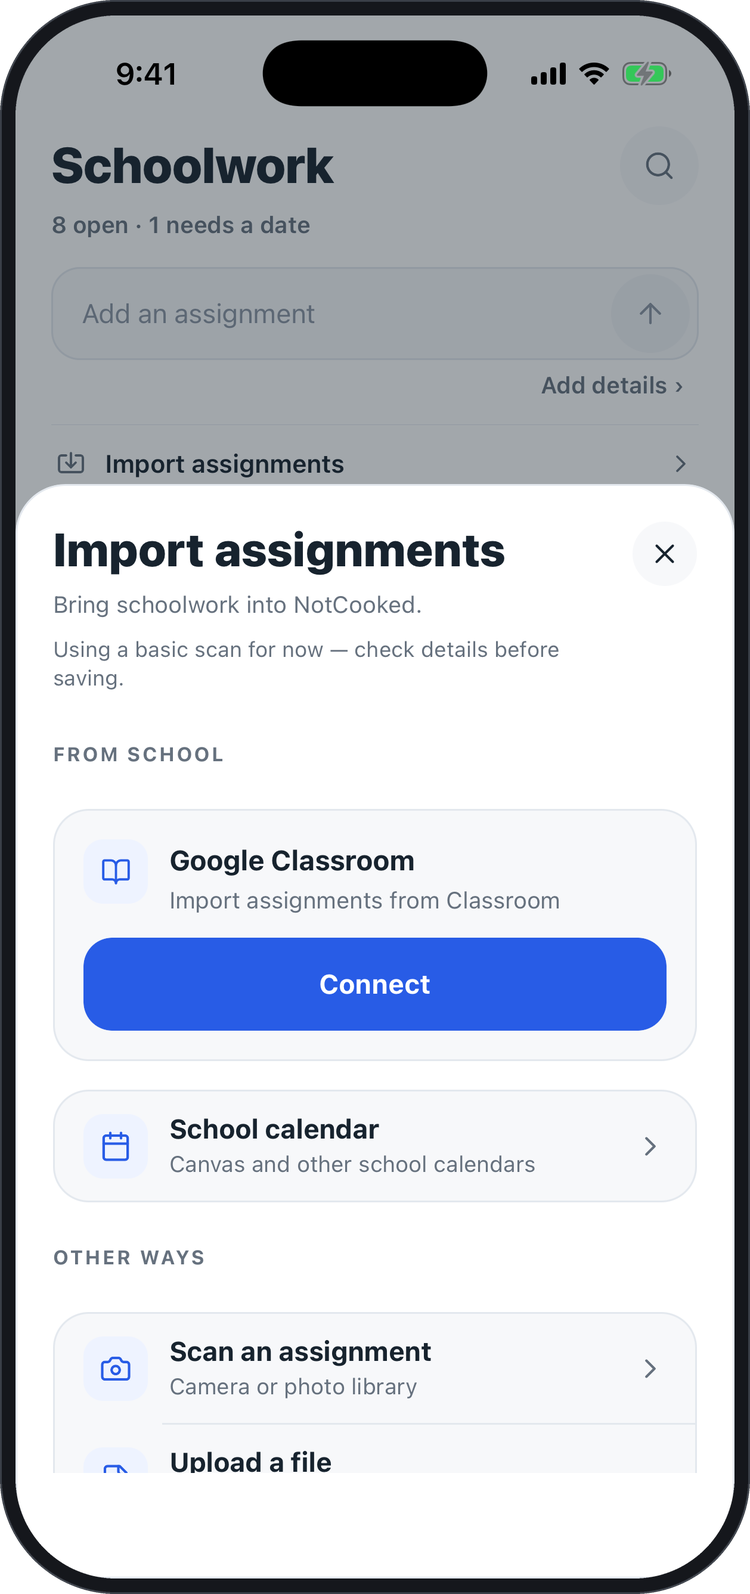
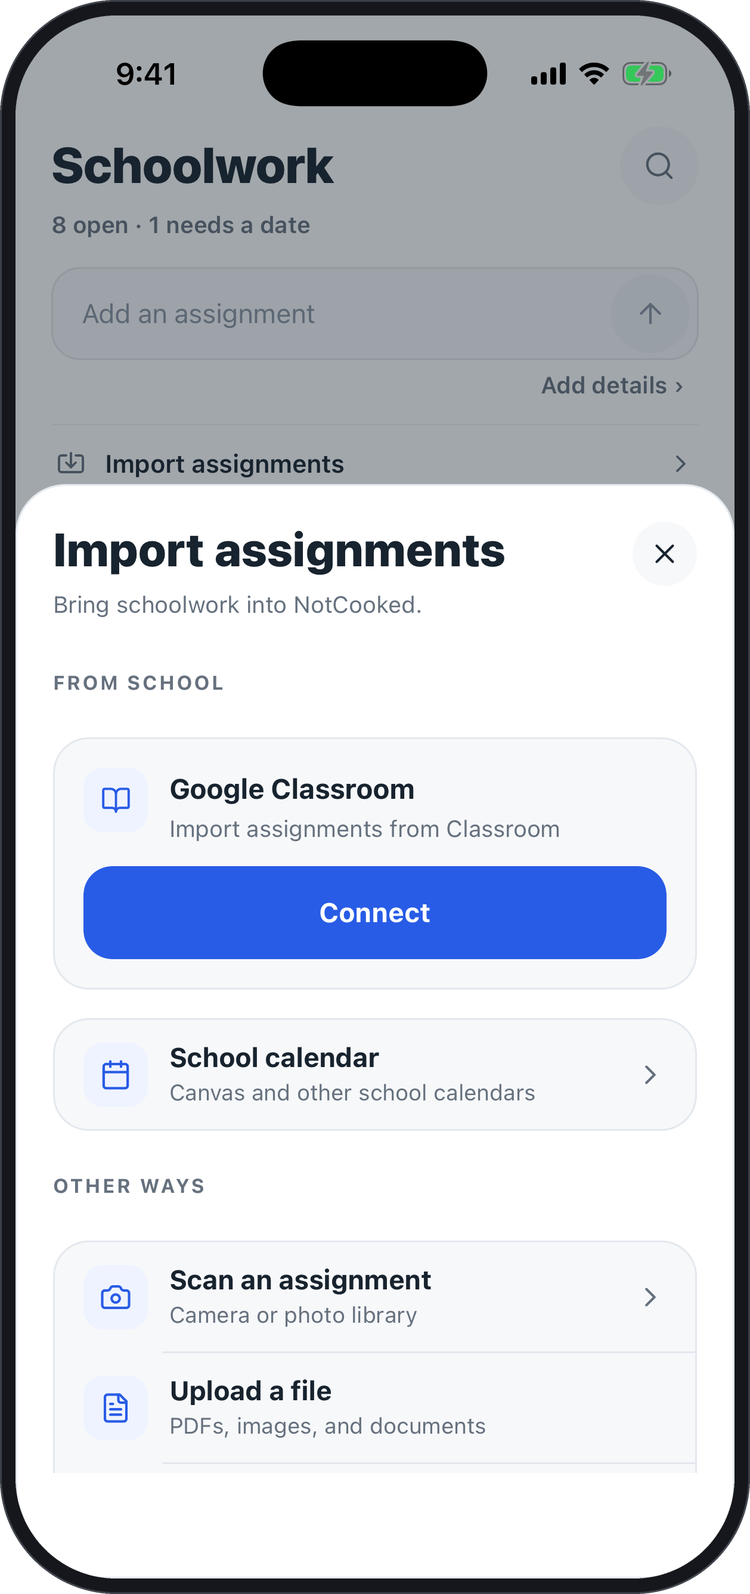
Replace import screenshots with the full-feature view
Retake the import options and review screenshots without the fallback-scan notice, and reword the technology line.

diff --git a/README.md b/README.md
@@ -56,7 +56,7 @@ NotCooked has been beta-tested with 25+ students and has been iterated using the
 
 ## Technology
 
-Built with Expo (React Native) and Firebase for authentication and data. Sensitive credentials, such as the connection to Google Classroom, are kept in the device's secure storage. The core logic is covered by automated tests.
+NotCooked is an Expo (React Native) app that uses Firebase for authentication and data. Sensitive credentials, such as the connection to Google Classroom, are kept in the device's secure storage. The core logic is covered by automated tests.
 
 ## More
 
